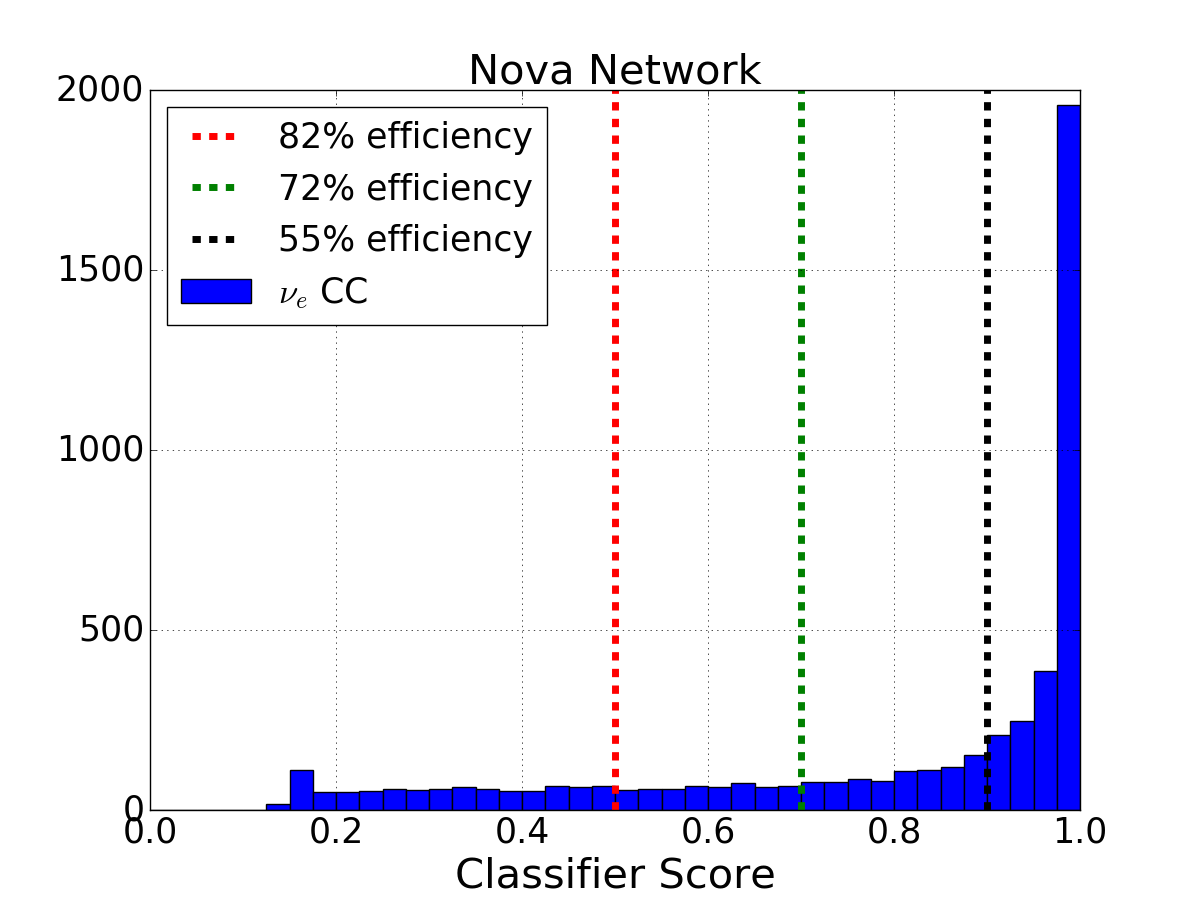
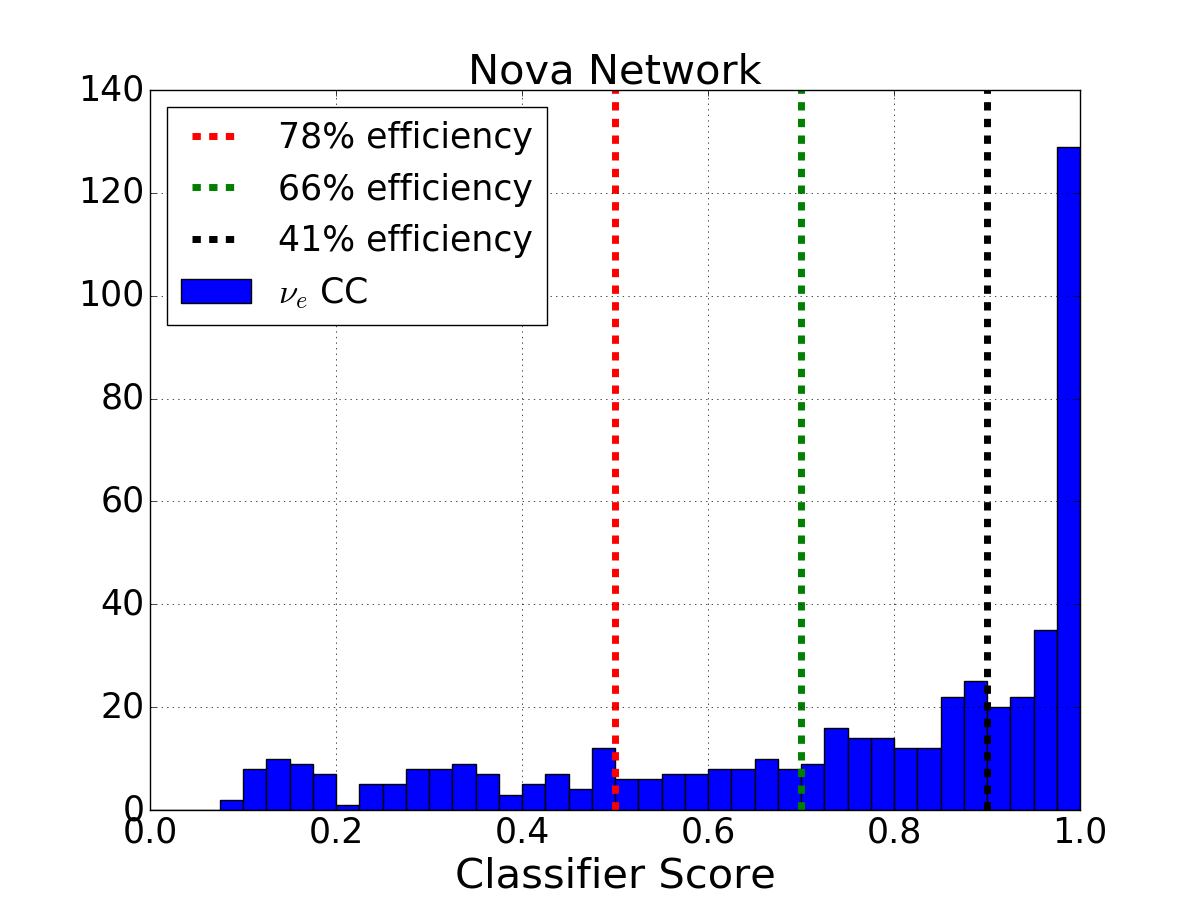
performance figures with full nue eval set.

diff --git a/nova_net/evaluatePerformance.py b/nova_net/evaluatePerformance.py
@@ -11,13 +11,13 @@ from matplotlib import pyplot as plt
 
 # We need the input network:
 net_file = '/home/coradam/deeplearning/nova_net/nova_ana.prototxt'
-weights = '/home/coradam/deeplearning/nova_net/nova_argoneut_iter_10000.caffemodel'
+weights = '/home/coradam/deeplearning/nova_net/nova_argoneut_iter_135000.caffemodel'
 
 key='probt'
 
 testNet = caffe.Net(net_file,weights, caffe.TEST)
 
-n_events = 5000
+n_events = 144000
 batch_size=10
 
 print_steps = n_events / (10*batch_size)
